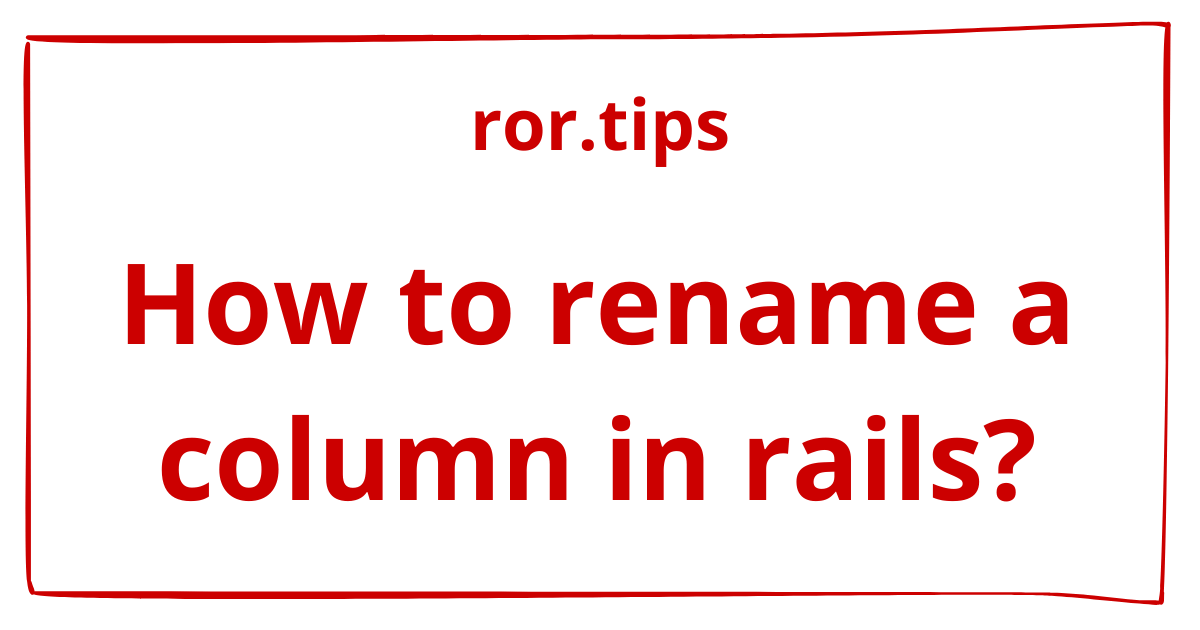
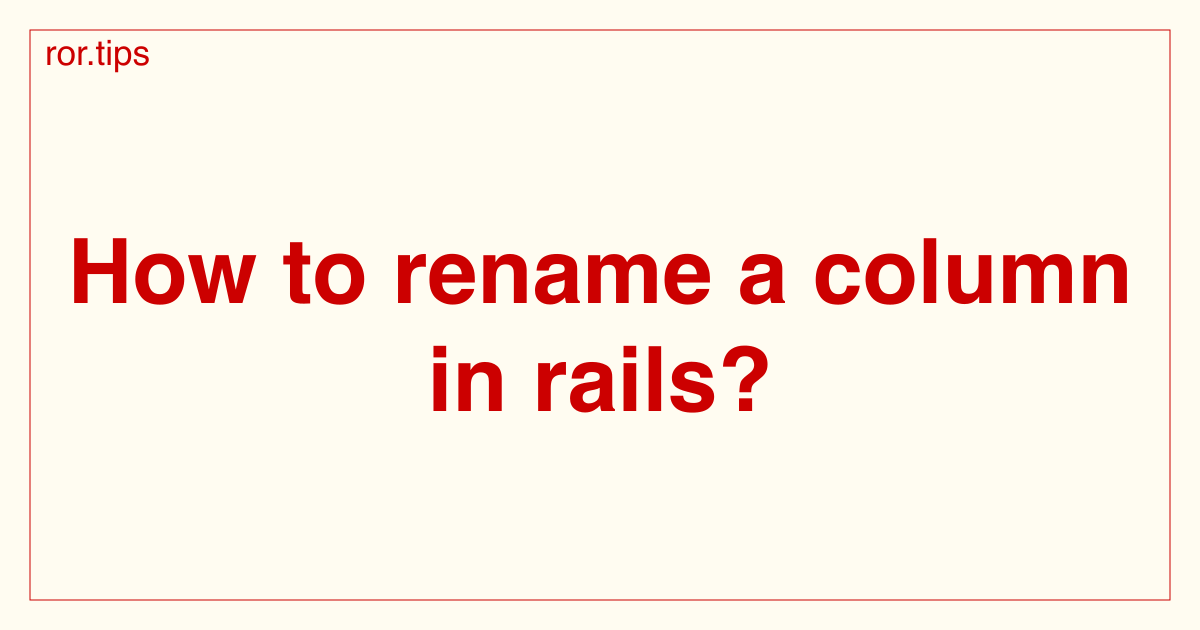
Change opengraph images

diff --git a/opengraph.js b/opengraph.js
@@ -10,7 +10,6 @@ async function handler() {
       'font-size': '70px',
     },
     'md': {
-      'offset': 570,
       'chars': 22,
       'lineheight': 120,
       'font-size': '90px',
@@ -32,15 +31,15 @@ async function handler() {
   let chars = title.length
   let variant = 'md'
 
-  if (chars <= 32) {
-    variant = 'xl'
-  } else if (chars <= 36) {
-    variant = 'lg'
-  } else if (chars <= 60) {
-    variant = 'md'
-  } else {
-    variant = 'sm'
-  }
+  // if (chars <= 32) {
+  //   variant = 'xl'
+  // } else if (chars <= 36) {
+  //   variant = 'lg'
+  // } else if (chars <= 60) {
+  //   variant = 'md'
+  // } else {
+  //   variant = 'sm'
+  // }
 
   const outputImageName = `assets/images/opengraph/${fileName}.png`;
 
@@ -48,7 +47,7 @@ async function handler() {
 
   const sentence = splitSentence(title, mapping[variant]['chars'])
   console.log('len:', sentence.length)
-  const title_y = 570 - (sentence.length * mapping[variant]['lineheight'])
+  const title_y = 315 - ((sentence.length * mapping[variant]['lineheight']) / 2)
   // Create a canvas
   let svgImage = `
         <svg viewBox="0 0 1200 630" xmlns="http://www.w3.org/2000/svg">
@@ -56,12 +55,19 @@ async function handler() {
           .author {
             font: bold 25px sans-serif;
           }
+          .heading {
+            fill: #CC0000;
+            font: 35px sans-serif;
+          }
           .title {
             fill: #CC0000;
             font: bold ${mapping[variant]['font-size']} sans-serif;
           }
         </style>
-        <text text-anchor="middle" y="${title_y}" class="title">${sentence.join('')}</text>
+        <rect x="0" y="0" width="1200" height="630" fill="#fffcf1" rx="0" ry="0" />
+        <rect x="30" y="30" width="1140" height="570" fill="#fffcf1" stroke="#CC0000" strokeWidth="2" />
+        <text x="45px" y="65px"  class="heading">ror.tips</text>
+        <text y="${title_y}" text-anchor="middle"  dominant-baseline="middle" class="title">${sentence.join('')}</text>
         </svg>
         `;
 
@@ -69,8 +75,7 @@ async function handler() {
   // gravity
 
   const svgBuffer = Buffer.from(svgImage);
-  const imageBuffer = await sharp(backgroundImage)
-    .composite([{ input: svgBuffer }])
+  const imageBuffer = await sharp(svgBuffer)
     .png()
     .toFile(outputImageName)
     .then(() => {
